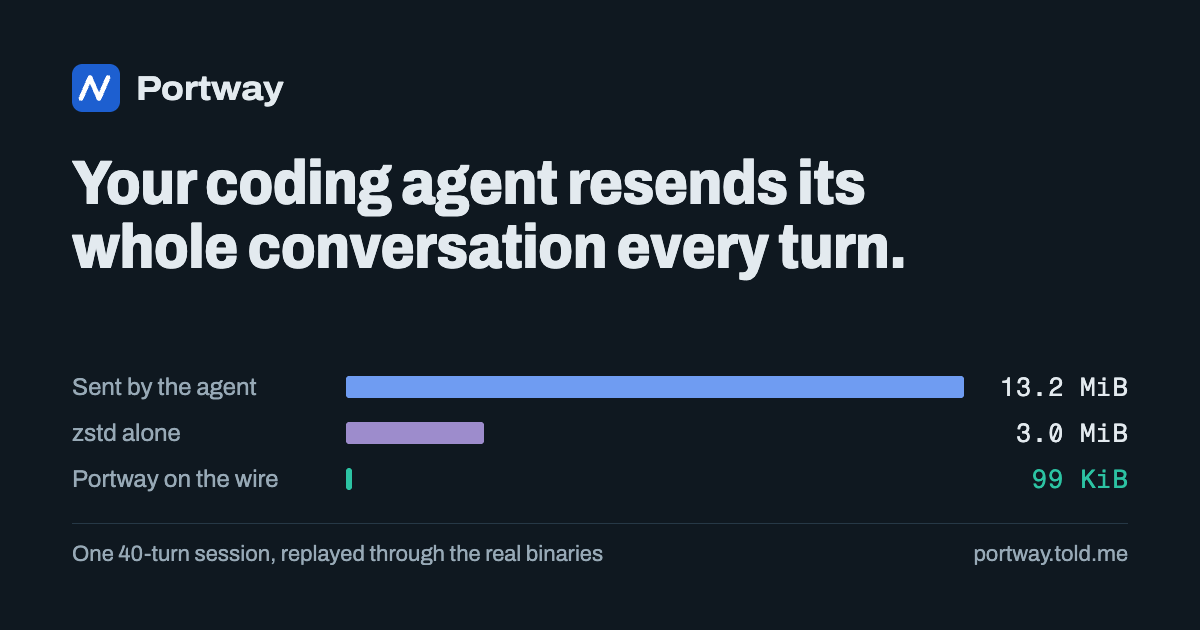
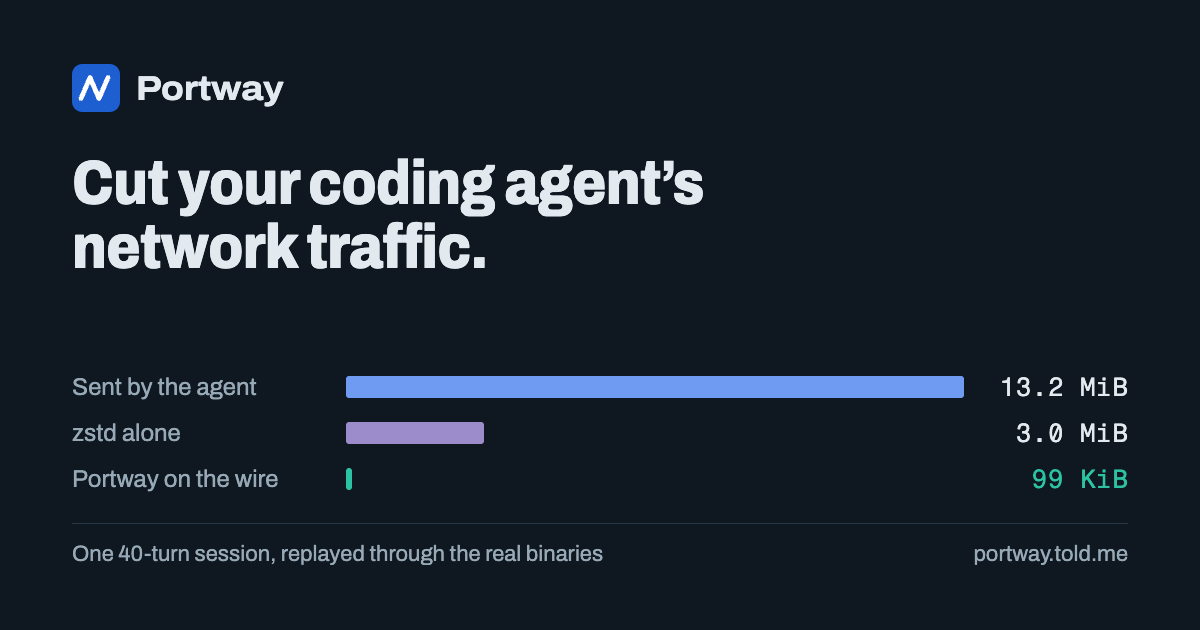
chore(site): re-render the social preview with the new headline
- Put the page's headline "Cut your coding agent's network traffic." on the OG card
- Re-render site/og.png from scripts/og-card.html with headless Chrome; the 40-turn numbers are unchanged

Changed region(s): [[0.0617, 0.2413, 0.7708, 0.4524]]

diff --git a/scripts/og-card.html b/scripts/og-card.html
@@ -45,7 +45,7 @@
     <svg viewBox="0 0 32 32" aria-hidden="true"><rect width="32" height="32" rx="7" fill="#1d5fd0"/><path d="M6 23 L12 9 L18 23 L24 9" fill="none" stroke="#fff" stroke-width="3.2" stroke-linecap="round" stroke-linejoin="round"/></svg>
     Portway
   </div>
-  <h1>Your coding agent resends its whole conversation every turn.</h1>
+  <h1>Cut your coding agent’s network traffic.</h1>
   <div class="bars">
     <span>Sent by the agent</span><div class="bar raw"></div><b>13.2 MiB</b>
     <span>zstd alone</span><div class="bar zstd"></div><b>3.0 MiB</b>
